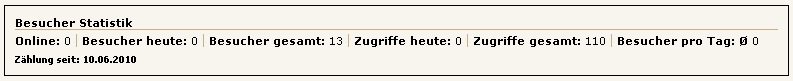
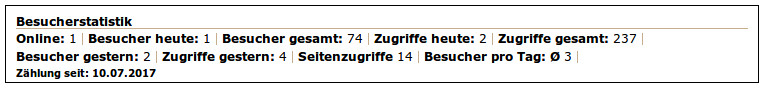
New Insert-Tags

Changed region(s): [[0.0, 0.0494, 1.0, 0.963]]

diff --git a/manual/visitors_bundle/en/03-overview-fe-be/02-overview-front-end.md b/manual/visitors_bundle/en/03-overview-fe-be/02-overview-front-end.md
@@ -6,10 +6,11 @@ For the front end are included two CSS files as an example of a display format:
 * mod_visitors_fe_horizontal.css for the horizontal output
 
 ### Visitors Statistics line by line
+View when using the template mod_visitors_fe_all:
 
 ![Visitors Statistics line by line](images/visitors-package-fe-en.jpg)
 
 ### Visitors Statistics horizontal output
+View when using the template mod_visitors_fe_all:
 
 ![Visitors Statistics horizontal output](images/visitors-package-fe-horizontal-en.jpg)
-

diff --git a/manual/visitors_bundle/de/06-insert-tags/01-anzeige.md b/manual/visitors_bundle/de/06-insert-tags/01-anzeige.md
@@ -9,7 +9,10 @@ Es gibt folgende Insert-Tags zum Anzeigen der Werte:
     {{visitors::katid::totalhit}}
     {{visitors::katid::todayvisit}}
     {{visitors::katid::todayhit}}
+    {{visitors::katid::yesterdayvisit}}
+    {{visitors::katid::yesterdayhit}}
     {{visitors::katid::averagevisits}}
+    {{visitors::katid::pagehits}}
 ```
 Die Insert-Tags können um den Präfix 'cache_' erweitert werden, damit sind diese 
 dann auch  sicher vor dem Cache. Das bedeutet, dass selbst wenn die Seite aus 

diff --git a/manual/visitors_bundle/en/06-insert-tags/01-show-the-values.md b/manual/visitors_bundle/en/06-insert-tags/01-show-the-values.md
@@ -7,7 +7,10 @@
 	 {{visitors::catid::totalhit}}
 	 {{visitors::catid::todayvisit}}
 	 {{visitors::catid::todayhit}}
-	 {{visitors::catid::averagevisits}}
+   {{visitors::katid::yesterdayvisit}}
+   {{visitors::katid::yesterdayhit}}
+   {{visitors::katid::averagevisits}}
+   {{visitors::katid::pagehits}}
 ```
 Insert Tag  can be extended with prefix 'cache_'. Thus, these then cache resistant. 
 This means that when a page comes from the Contao cache, then previously are 

diff --git a/manual/visitors_bundle/de/03-uebersicht-fe-be/02-uebersicht-frontend.md b/manual/visitors_bundle/de/03-uebersicht-fe-be/02-uebersicht-frontend.md
@@ -9,10 +9,12 @@ Diese Dateien liegen im Unterverzeichnis `css_demo`. Zur Verwendung siehe [CSS-D
 
 
 ### Besucherstatistik zeilenweise
+Ansicht bei Verwendung des Templates mod_visitors_fe_all:
 
 ![Ansicht Besucherstatisik zeilenweise](images/modul_visitors_fe_all.jpg)
 
 ### Besucherstatistik horizontal
+Ansicht bei Verwendung des Templates mod_visitors_fe_all:
 
 ![Ansicht Besucherstatisik horizontal](images/modul_visitors_fe_all_horizontal.jpg)
 

diff --git a/manual/visitors_bundle/de/07-besonderheiten/03-bot-detection-abschalten.md b/manual/visitors_bundle/de/07-besonderheiten/03-bot-detection-abschalten.md
@@ -1,6 +1,6 @@
 ## Bot Detection abschalten
 
-Wer die Zugriffe von Bots und Suchmaschinen mitzählen möchte, kann die BotDetection 
+Wer die Zugriffe von Bots und Suchmaschinen mitzählen möchte, kann die Bot Detection 
 abschalten. Das geht allerdings nicht über das Backend, sondern muss über die 
 localconfig.php passieren.
 

diff --git a/manual/visitors_bundle/README.md b/manual/visitors_bundle/README.md
@@ -1,4 +1,4 @@
-# Manual For Contao 4 extension Visitors Bundle
+# Manual for Contao 4 extension Visitors Bundle
 
 This is the manual for users on [docs.contao.ninja](http://docs.contao.ninja/).
 
